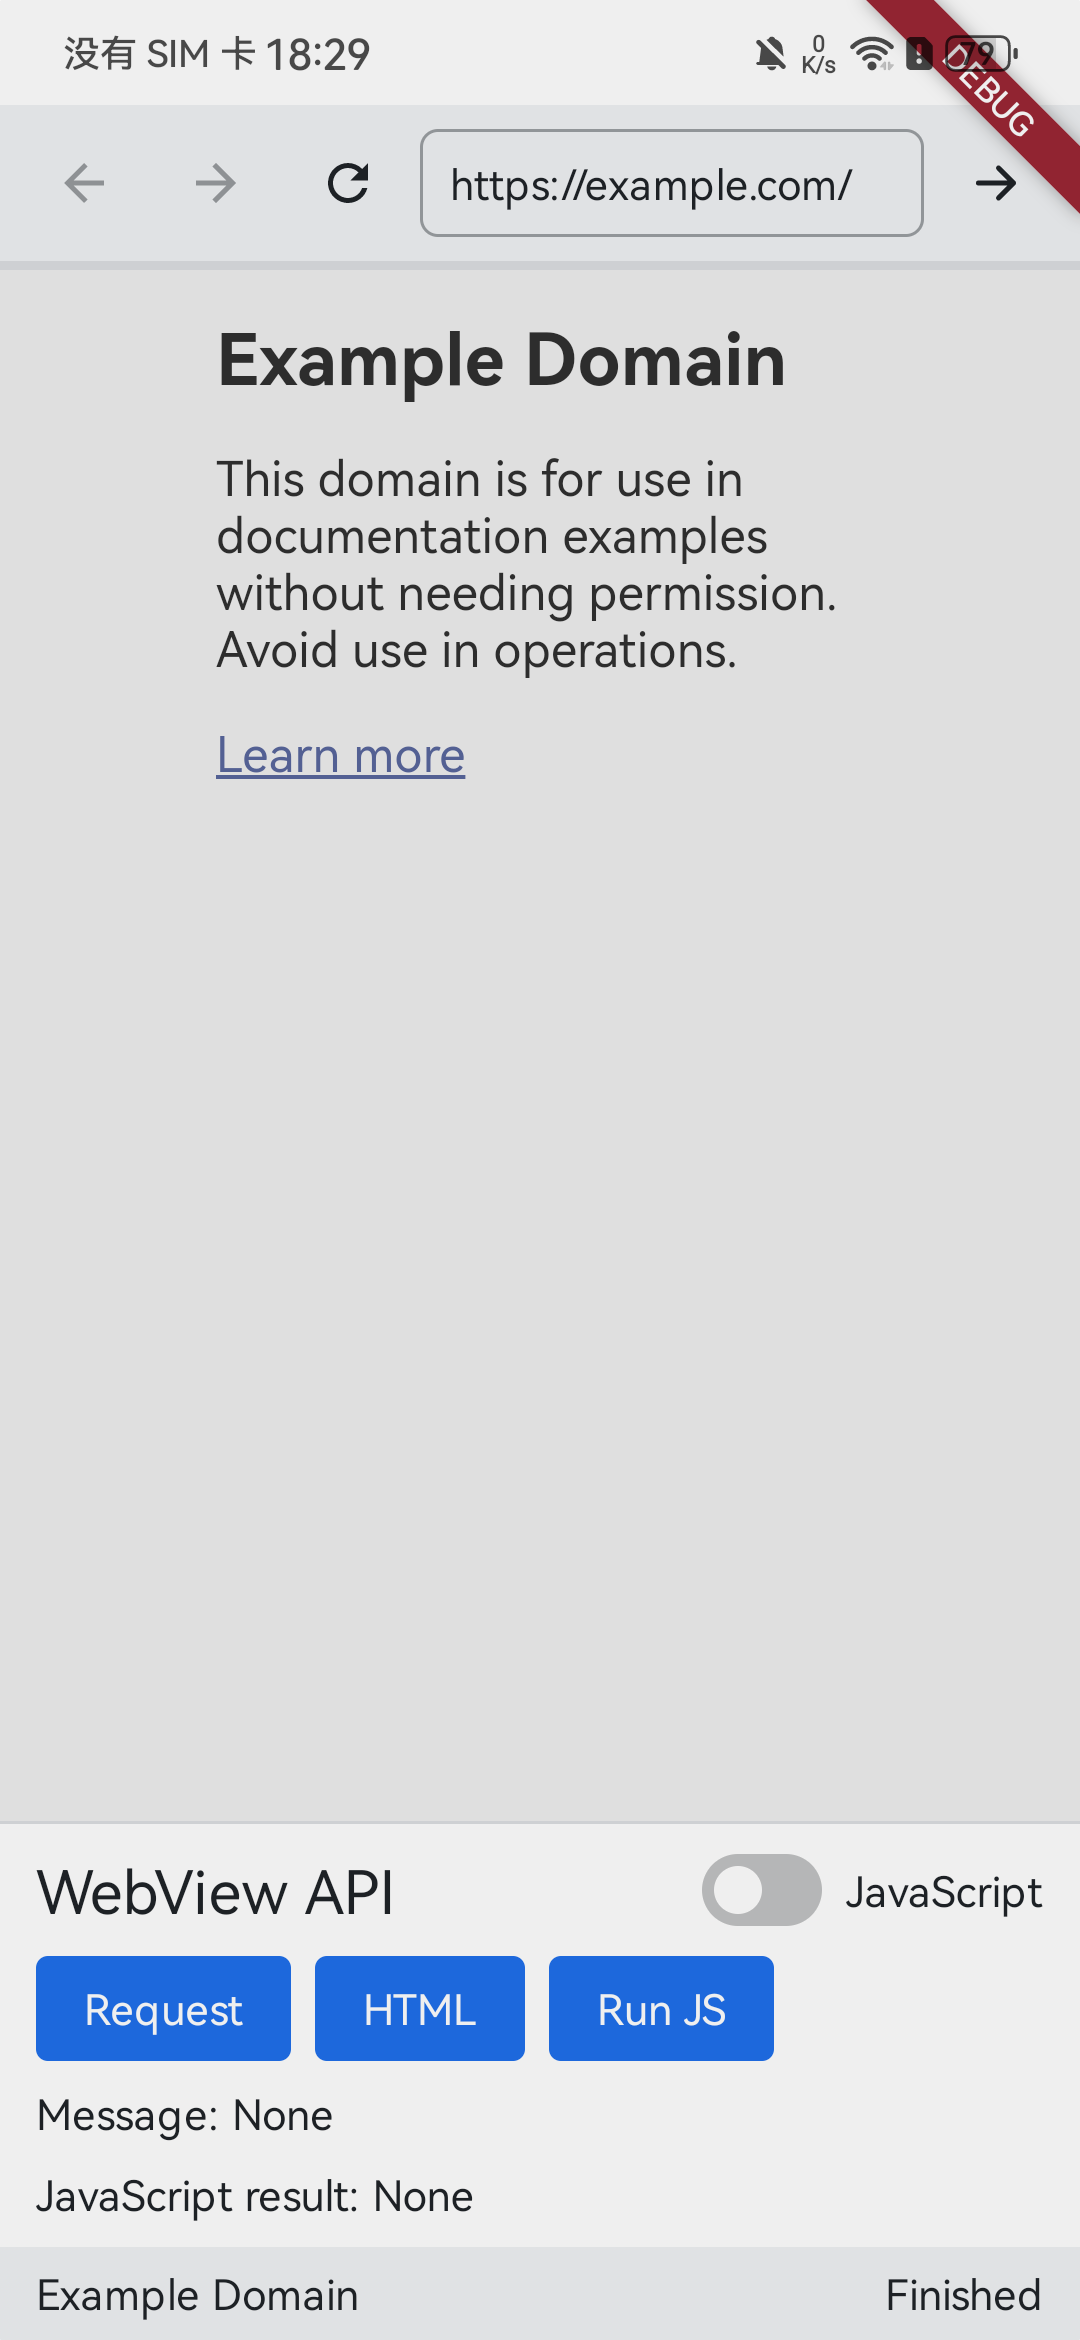
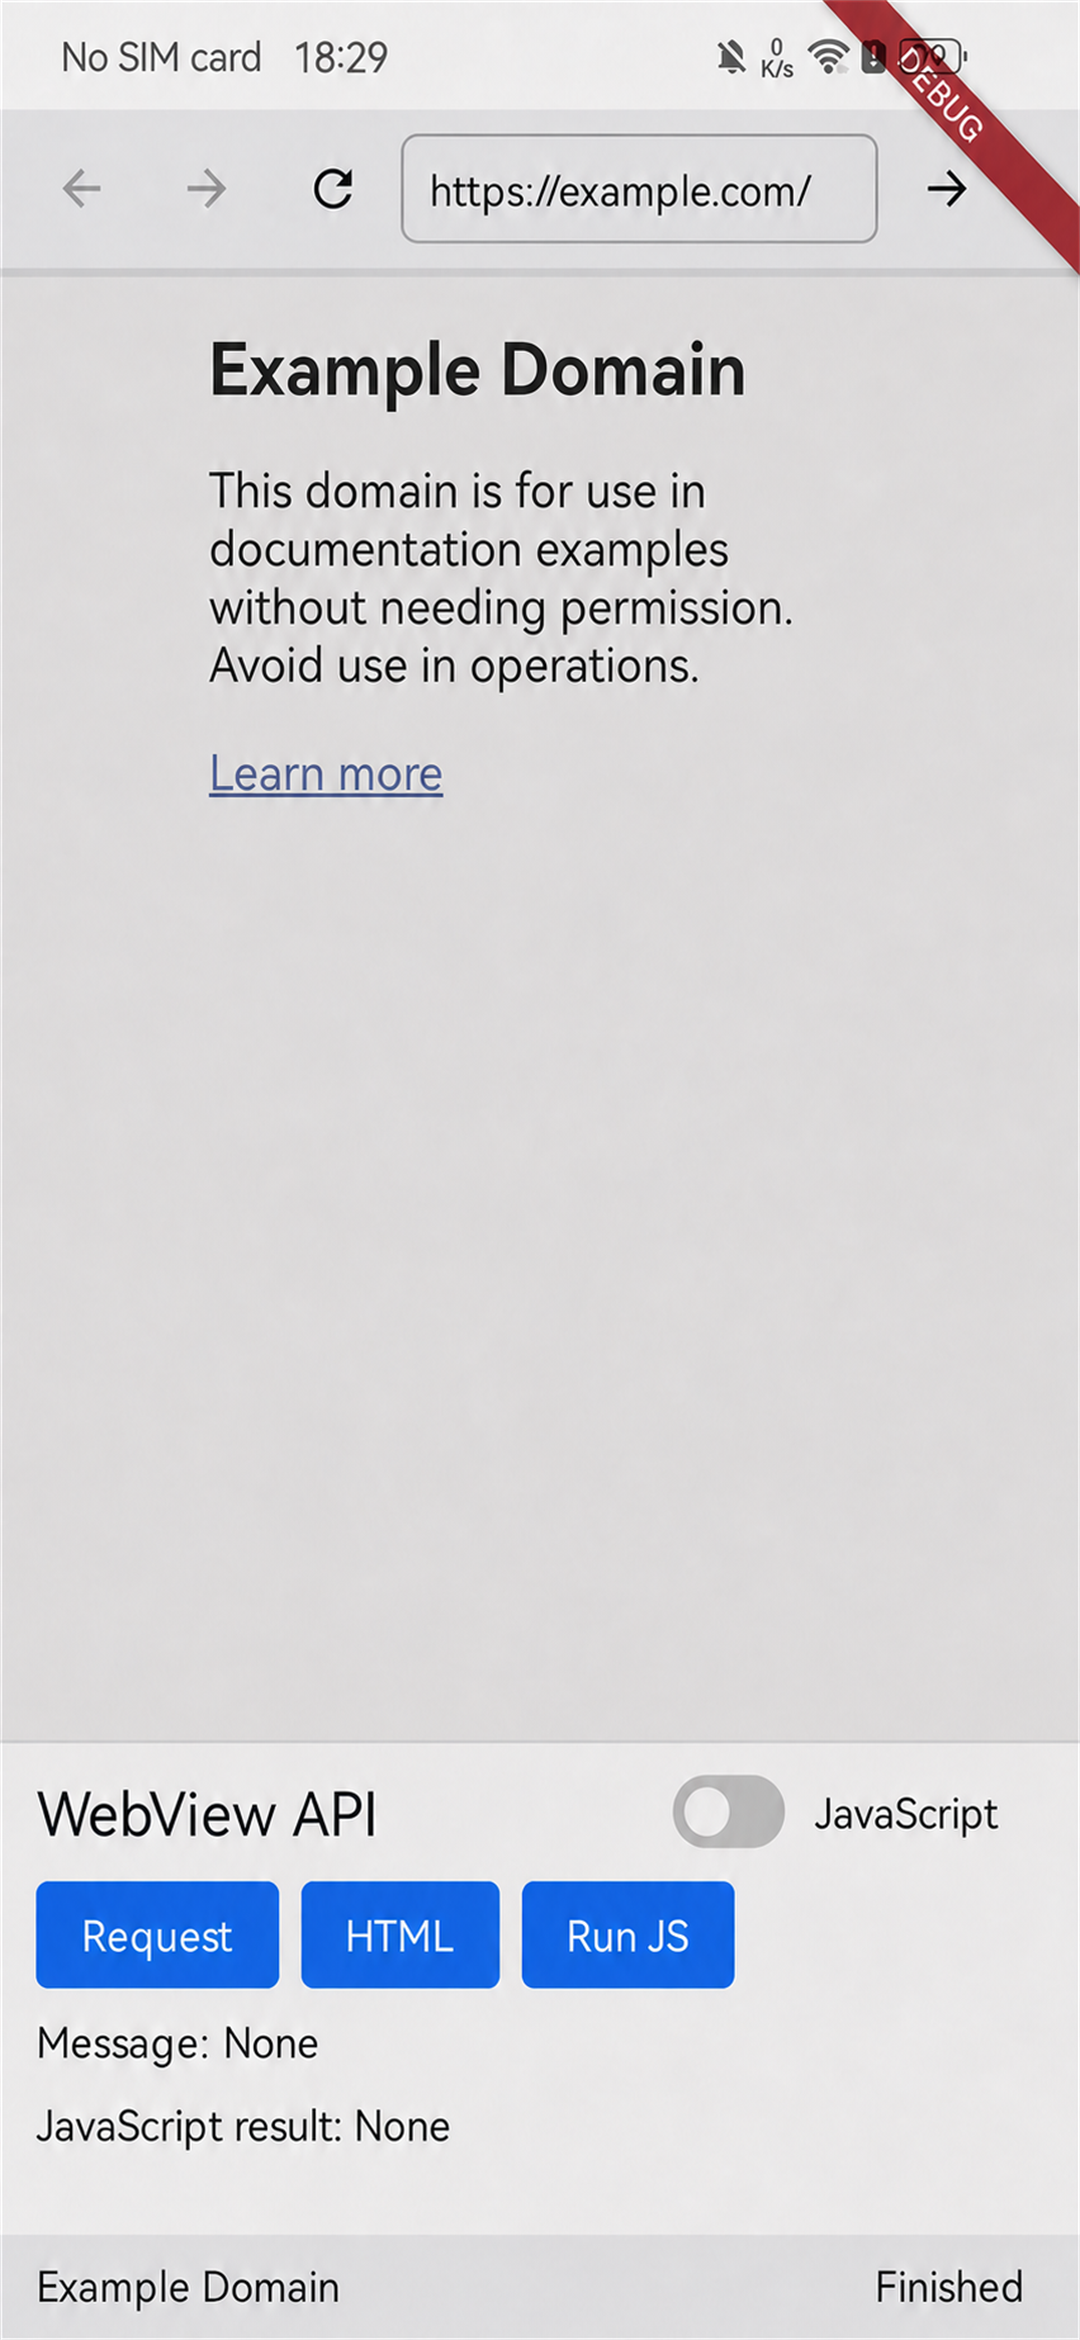
fix(windows): automate WebView2 SDK setup
Fetch the pinned WebView2 SDK when no local override is provided and fix the Windows build configuration.

Refresh installation guidance and add localized platform preview images.

diff --git a/platform/windows/src/webview_windows.cpp b/platform/windows/src/webview_windows.cpp
@@ -4,6 +4,9 @@
 
 #include <WebView2.h>
 
+#include <algorithm>
+#include <cctype>
+#include <limits>
 #include <memory>
 #include <mutex>
 #include <optional>
@@ -199,6 +202,12 @@ std::string HtmlWithBaseUrl(const WebViewHtml& html) {
   }
   return "<head><base href=\"" + EscapeHtmlAttribute(html.base_url) + "\"></head>" + html.content;
 }
+
+void EmitLoadError(
+    const std::shared_ptr<WindowsWebViewInstance>& instance,
+    std::string code,
+    std::string message
+);
 
 bool LoadRequest(
     const std::shared_ptr<WindowsWebViewInstance>& instance,
@@ -595,6 +604,7 @@ bool RunCommand(
       instance->web_view->get_CanGoForward(&available);
       return available != FALSE && SUCCEEDED(instance->web_view->GoForward());
     }
+    }
   }
   if (const auto* value = std::get_if<WebViewLoadRequestCommand>(&command)) {
     return LoadRequest(instance, value->request);
@@ -660,6 +670,3 @@ void InstallPlatformWebView(RootContext& root) {
 }
 
 } // namespace huxerui::detail
-#include <algorithm>
-#include <cctype>
-#include <limits>

diff --git a/README.md b/README.md
@@ -11,10 +11,22 @@ The library uses the platform web engine and integrates it as a HuxerUI `Platfor
 <table>
   <thead>
     <tr>
-      <th colspan="2">macOS</th>
+      <th colspan="2">Windows</th>
     </tr>
   </thead>
   <tbody>
+    <tr>
+      <td colspan="2" align="center">
+        <img
+          src="docs/images/webview-preview-windows.png"
+          alt="HuxerUI WebView preview on Windows"
+          width="760"
+        >
+      </td>
+    </tr>
+    <tr>
+      <th colspan="2">macOS</th>
+    </tr>
     <tr>
       <td colspan="2" align="center">
         <img
@@ -65,7 +77,7 @@ The library uses the platform web engine and integrates it as a HuxerUI `Platfor
 | Android | Android WebView | Android API 23 or later |
 | iOS | WKWebView | iOS 13 or later |
 | macOS | WKWebView | WebKit is linked by the library |
-| Windows | WebView2 | Requires the WebView2 SDK when building and the WebView2 Runtime when running |
+| Windows | WebView2 | Downloads the WebView2 SDK when building and requires the WebView2 Runtime when running |
 | Web | iframe | Subject to browser embedding and cross-origin restrictions |
 
 ## Add the library
@@ -78,18 +90,18 @@ Add the Git repository after the application's `huxerui_add_app` call:
 huxerui_use_library(my_app
         TARGET HuxerUI::WebView
         URL "https://github.com/HuxerUI/Lib-WebView.git"
-        REVISION "<full-commit-sha>"
+        TAG "v0.1.0"
 )
 ```
 
-Replace `<full-commit-sha>` with the complete 40-character SHA of the revision to use. Include the public API with:
+Include the public API with:
 
 ```cpp
 #include <huxerui/webview.h>
 ```
 
-On Windows, set `WEBVIEW2_SDK_ROOT` to the extracted Microsoft WebView2 NuGet package root before configuring the
-project.
+On Windows, the first configure downloads the pinned Microsoft WebView2 SDK. Set `WEBVIEW2_SDK_ROOT` to an extracted
+Microsoft WebView2 NuGet package root to use a local SDK, including for offline builds.
 
 ## Quick start
 
